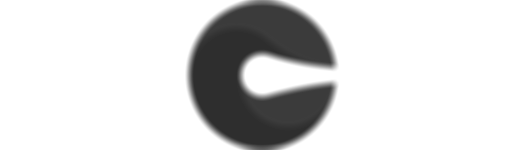
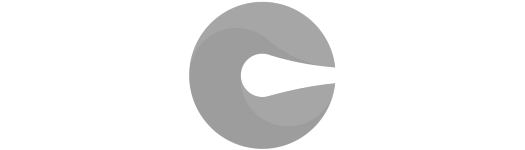
CHANGE index.html, app.css, CRW image grey

Changed region(s): [[0.3352, 0.0, 0.6705, 1.0]]

diff --git a/website/css/app.css b/website/css/app.css
@@ -1120,6 +1120,10 @@ ul.parsley-errors-list li {
     margin-bottom: 30px;
 }
 
+#code-development-conf .conf-section-header h3 {
+    margin-bottom: 12px;
+}
+
 #build-and-artifact-conf .conf-section-header h3 {
     margin-bottom: 25px;
 }
@@ -1268,6 +1272,7 @@ ul.parsley-errors-list li {
 
 #source-control-management-conf,
 #collaboration-conf,
+#code-development-conf,
 #build-and-artifact-conf,
 #code-quality-conf {
     padding-left: 15px;
@@ -1975,6 +1980,7 @@ ul.parsley-errors-list li {
     #ci-cd-conf,
     #source-control-management-conf,
     #collaboration-conf,
+    #code-development-conf,
     #build-and-artifact-conf,
     #code-quality-conf,
     #testing-conf,

diff --git a/website/index.html b/website/index.html
@@ -393,7 +393,7 @@
                     </fieldset>
                   </span>
                   <!--BLOCK 2 SECTION 3  -->
-                  <span id="collaboration" class="block-section">
+                  <span id="code-development" class="block-section">
                     <h3 class="block-section-header">Code Development</h3>
                     <!-- B2.S3.Row 1 -->
                     <fieldset>
